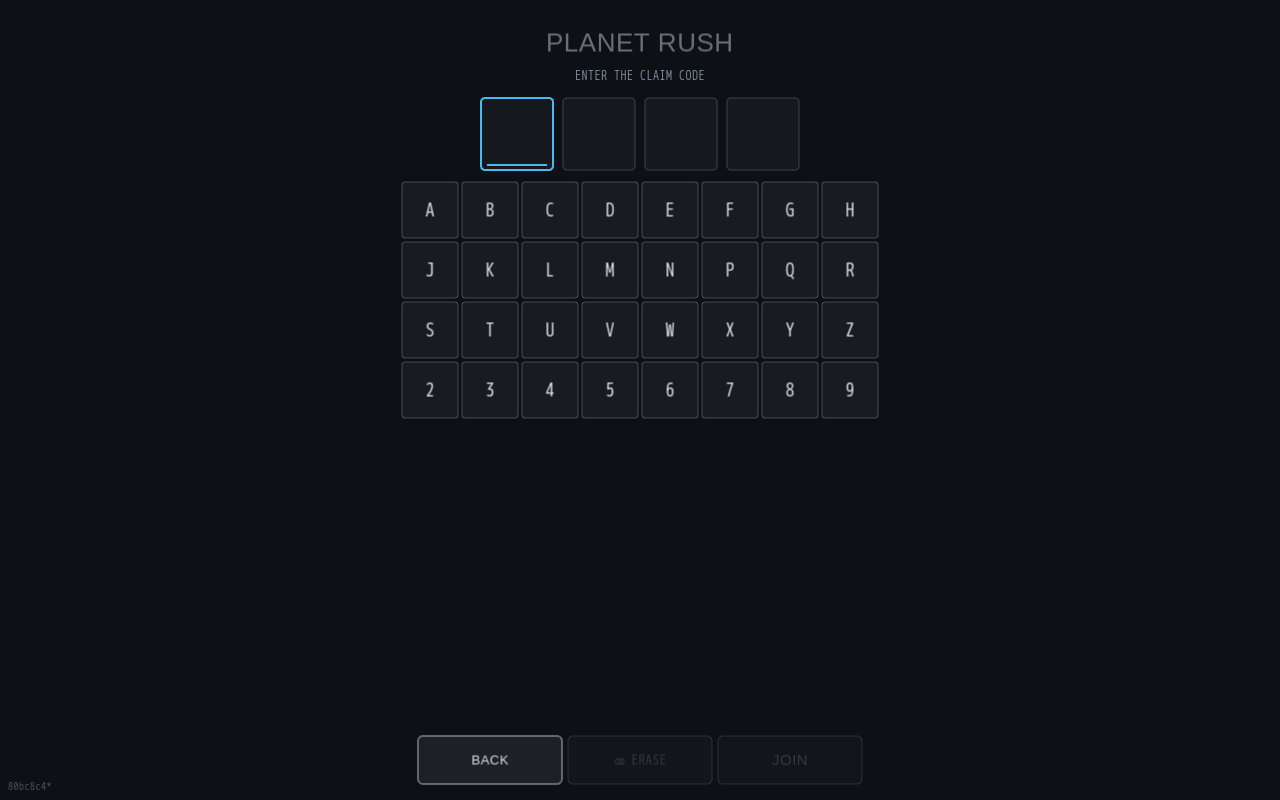
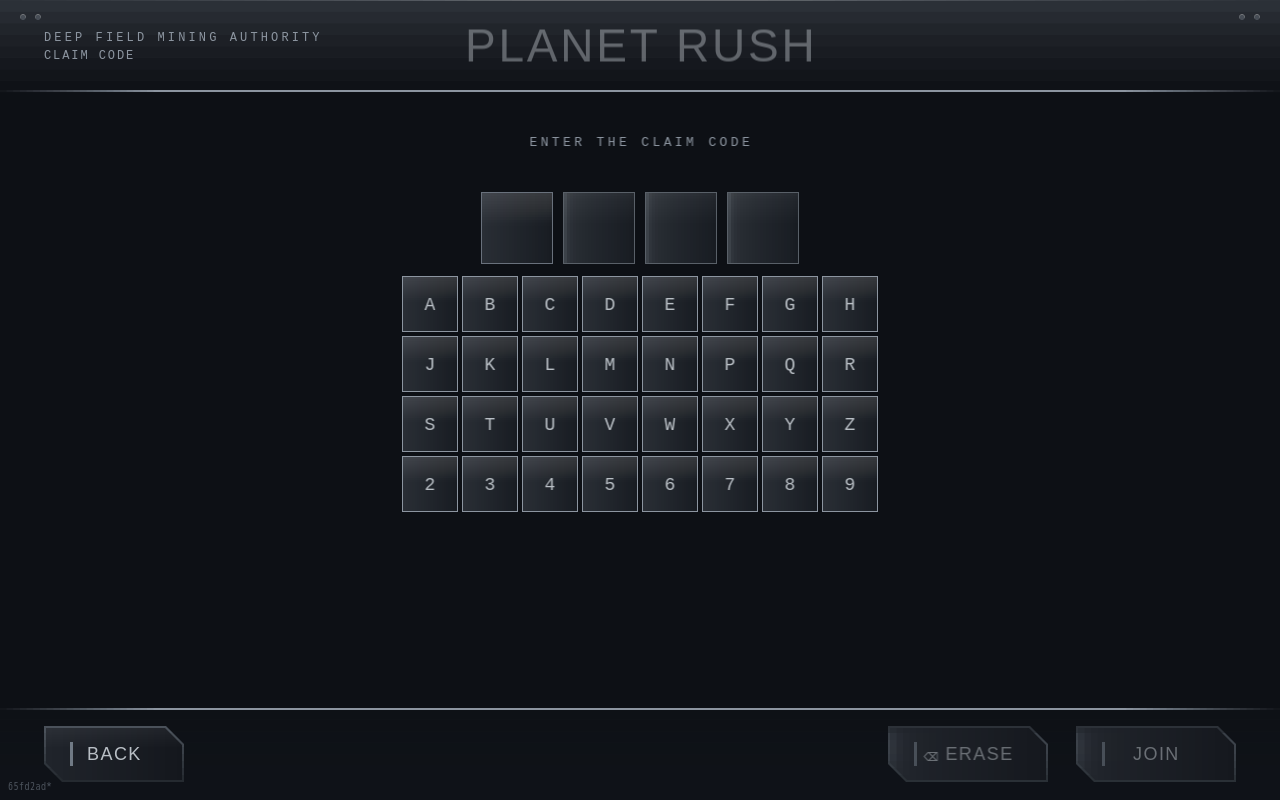
copy(r1-01): the keypad said ROOM CODE above ENTER THE CLAIM CODE
Found by looking at the re-shot evidence rather than by a failing test, because
nothing asserted the two lines agree. `ENTRY_STATUS.join` is a string u7-04's
header beam added to this file AFTER the sweep had already read it — it is not in
the merge base — so l2-02 renamed the prompt and never saw the status line landing
above it. The shipped keypad read:

    CLAIM CODE            ← was ROOM CODE
    ENTER THE CLAIM CODE

One screen, two vocabularies. This is the merge gap the DIFF could not show: both
sides were individually correct and neither conflicted.

`CLAIM CODE` invents nothing. CLAIM is the ratified fiction word (§4.7) and CODE
stays CODE, which is the sweep's own hard limit — a player types four characters
read off somebody else's screen, and "enter the claim seal" would make a
first-timer guess. It also matches lobby-view's already-ratified ROOM → CLAIM.

Guarded as a CONDITION rather than pinned prose: whatever those two lines say,
they may not disagree about what the thing is called. Pinning the words would
have gone stale the same way this string did.

Keypad evidence re-shot on all three profiles.

diff --git a/src/ui/lobby-entry.test.ts b/src/ui/lobby-entry.test.ts
@@ -681,12 +681,25 @@ describe('the doors in Gantry/Bone (u7-04)', () => {
 
   it('carries the title screen’s letterhead, and names the screen you are on', () => {
     // No new voice is invented for a screen the handoff never drew: the authority
-    // line is the title screen's, verbatim, and the keypad's status is the
-    // handoff's own word for that panel.
+    // line is the title screen's, verbatim, and the keypad's status names that
+    // panel in the ratified vocabulary — `CLAIM`, and a code is still a CODE.
     expect(entryModel(createEntry()).eyebrow).toBe('DEEP FIELD MINING AUTHORITY');
     expect(entryModel(createEntry()).status).toBe('CONTRACT OPEN · SECTOR 04');
     const join = chooseDoor(createEntry(), 'join', rng()).state;
-    expect(entryModel(join).status).toBe('ROOM CODE');
+    expect(entryModel(join).status).toBe('CLAIM CODE');
+  });
+
+  it('never lets the keypad hold two vocabularies at once (l2-02 merge gap)', () => {
+    // u7-04 added the header beam's status line AFTER the sweep had read this file,
+    // so the screen shipped saying ROOM CODE directly above ENTER THE CLAIM CODE.
+    // Encoded as a condition rather than pinned prose: whatever these two say, they
+    // may not disagree about what the thing is called.
+    const join = chooseDoor(createEntry(), 'join', rng()).state;
+    const model = entryModel(join);
+    expect(model.status).toContain('CLAIM');
+    expect(model.prompt).toContain('CLAIM');
+    expect(model.status).not.toContain('ROOM');
+    expect(model.prompt).not.toContain('ROOM');
   });
 
   it('keeps the footer plates inside the footer BEAM, and BACK where it was', () => {

diff --git a/src/ui/lobby-entry.ts b/src/ui/lobby-entry.ts
@@ -571,14 +571,19 @@ export interface EntryModel {
 export const ENTRY_EYEBROW = 'DEEP FIELD MINING AUTHORITY';
 
 /**
- * …and its second line, which is this screen's own state. `ROOM CODE` is the
- * handoff's own word for the keypad screen (it labels that panel exactly so); the
- * doors carry the title screen's standing contract line unchanged, because the
- * doors screen is where that contract is taken up.
+ * …and its second line, which is this screen's own state. The handoff labels that
+ * panel `ROOM CODE`; l2-02 files it as `CLAIM CODE`, because this string landed
+ * (u7-04's header beam) after the sweep had already read this file, and left the
+ * keypad saying `ROOM CODE` two lines above its own `ENTER THE CLAIM CODE`. One
+ * screen cannot hold both vocabularies. It invents nothing: `CLAIM` is the
+ * ratified fiction word and `CODE` stays `CODE`, which is the sweep's hard limit —
+ * a player types four characters read off somebody else's screen. The doors carry
+ * the title screen's standing contract line unchanged, because the doors screen is
+ * where that contract is taken up.
  */
 export const ENTRY_STATUS = {
   home: 'CONTRACT OPEN · SECTOR 04',
-  join: 'ROOM CODE',
+  join: 'CLAIM CODE',
 } as const;
 
 /**
